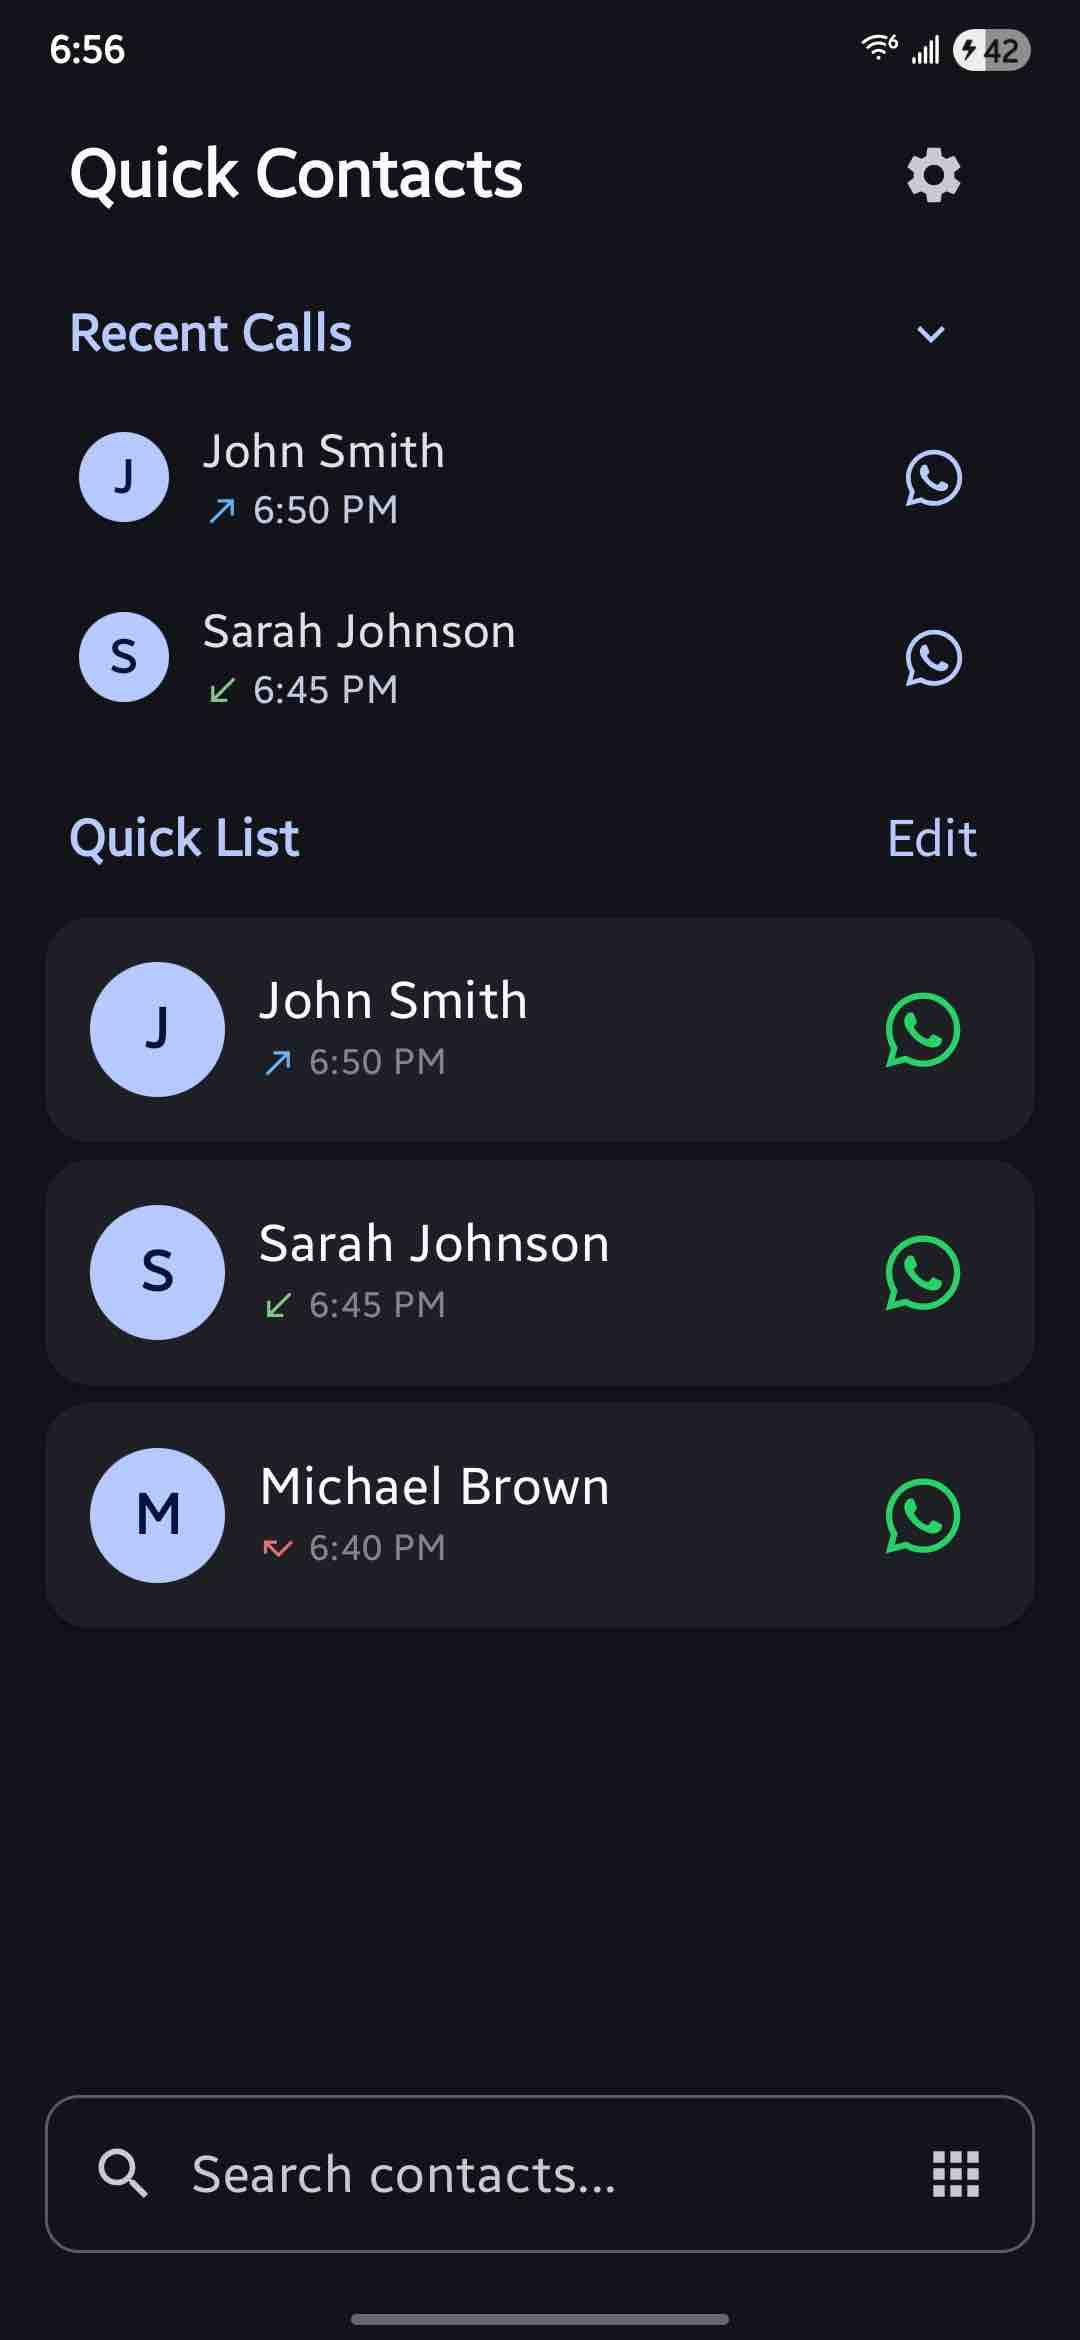
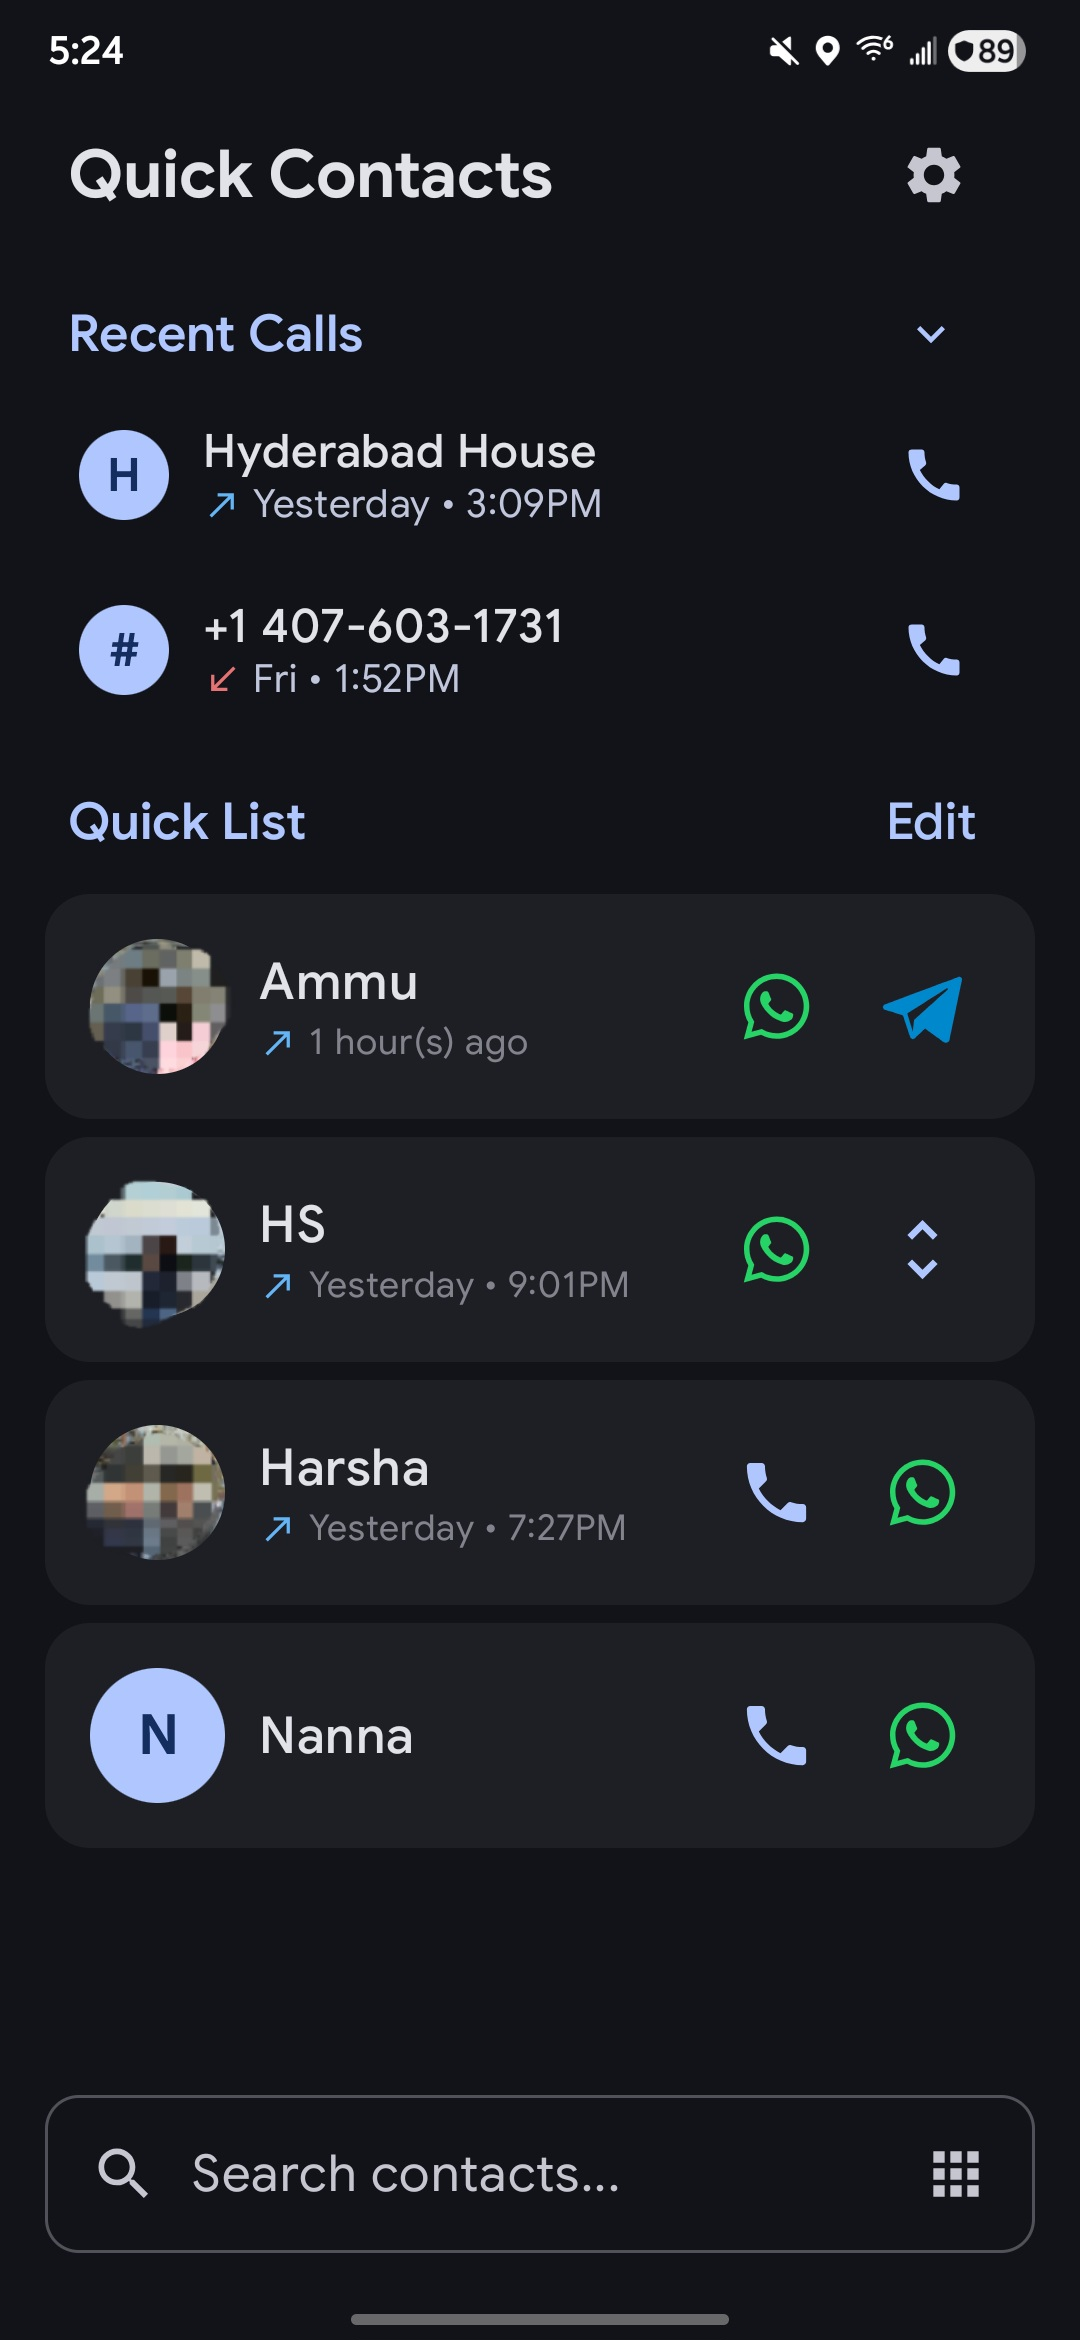
update readme

diff --git a/README.md b/README.md
@@ -5,17 +5,19 @@ A fast and privacy-focused Android app for quick access to your most important c
 ## Features
 
 - **Quick Contact List**: Add your most important contacts for instant access
-- **Recent Calls**: View and redial your recent calls
-- **Direct Actions**: Call, message, or open messaging apps with one tap
+- **Recent Calls**: View and redial your recent calls (GitHub release only)
+- **Direct Actions**: Call, message, or open messaging apps (WhatsApp, Telegram, Signal, SMS) with one tap
+- **Audio & Video Calls**: Start audio and video calls directly in all supported apps
 - **Search**: Quickly find any contact in your phonebook by name or phone number
 - **Customizable Actions**: Set different actions for each contact
+- **Refreshed Settings**: Updated settings screen for a cleaner, more intuitive experience
 - **Offline Operation**: Works entirely offline - no internet required
 
 ## Screenshots
 
-| Homescreen | Recent Calls | Tap Actions | Settings |
-|------------|--------------|-------------|----------|
-| ![Homescreen](screenshots/homescreen.jpg) | ![Recent Calls](screenshots/recent-calls.jpg) | ![Tap Actions](screenshots/tap-actions.jpg) | ![Settings](screenshots/settings.jpg) |
+| Homescreen | All Options | Tap Actions | Settings |
+|------------|-------------|-------------|----------|
+| ![Homescreen](screenshots/homescreen.jpg) | ![All Options](screenshots/all-options.jpg) | ![Tap Actions](screenshots/tap-actions.jpg) | ![Settings](screenshots/settings.jpg) |
 
 ## Privacy-First Design
 
@@ -55,6 +57,7 @@ Quick Contacts is built with your privacy in mind:
 - Recent calls appear at the top of the main screen
 - Tap any recent call to redial
 - Call types are color-coded (incoming, outgoing, missed)
+- Note: Recent calls is currently exclusive to the GitHub release build
 
 ## Privacy Policy
 
